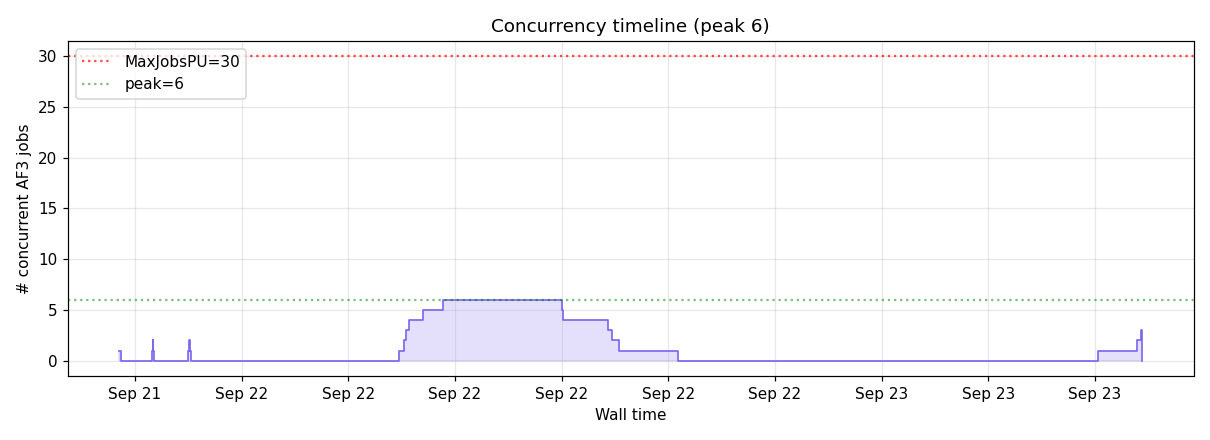
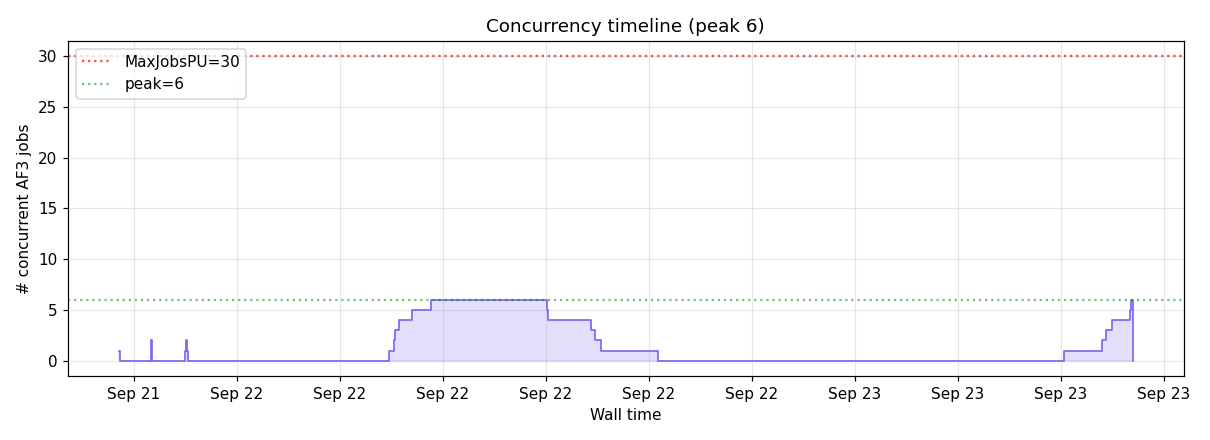
auto: 2026-09-23 10:46:55

diff --git a/index.html b/index.html
@@ -24,29 +24,29 @@ tr:nth-child(even) { background: #fafafa; }
 </style>
 </head><body>
 <h1>AF3 Campaign Dashboard</h1>
-<p class="stamp">Last updated: <strong>2026-09-23 09:46 EDT</strong> · regenerated on the cluster hourly · this page auto-reloads every 30 min</p>
+<p class="stamp">Last updated: <strong>2026-09-23 10:47 EDT</strong> · regenerated on the cluster hourly · this page auto-reloads every 30 min</p>
 
 <div class="cards">
-  <div class="card"><div class="v">85</div><div class="l">Total COMPLETED pairs</div></div>
-  <div class="card"><div class="v">3</div><div class="l">Done today</div></div>
-  <div class="card"><div class="v">53</div><div class="l">Last 24 h rate</div></div>
-  <div class="card"><div class="v">3 / 37</div><div class="l">Running / Pending now</div></div>
+  <div class="card"><div class="v">91</div><div class="l">Total COMPLETED pairs</div></div>
+  <div class="card"><div class="v">9</div><div class="l">Done today</div></div>
+  <div class="card"><div class="v">56</div><div class="l">Last 24 h rate</div></div>
+  <div class="card"><div class="v">6 / 34</div><div class="l">Running / Pending now</div></div>
 </div>
 
 <h2>Live queue</h2>
 <div class="plots">
   <div>
-    <h3>RUNNING (3)</h3>
+    <h3>RUNNING (6)</h3>
     <div class="queue-table">
       <table><thead><tr><th>Job</th><th>Elapsed</th><th>Left</th><th>Reason / Node</th></tr></thead>
-      <tbody><tr><td>af3_p042_b001</td><td>2:39</td><td>1-23:57:21</td><td>alphagpu54</td></tr><tr><td>af3_p041_b002</td><td>11:56</td><td>1-23:48:04</td><td>alphagpu51</td></tr><tr><td>af3_p041_b001</td><td>1:39:07</td><td>1-22:20:53</td><td>alphagpu53</td></tr></tbody></table>
+      <tbody><tr><td>af3_p044_b001</td><td>3:40</td><td>1-23:56:20</td><td>alphagpu53</td></tr><tr><td>af3_p044_b002</td><td>6:16</td><td>1-23:53:44</td><td>alphagpu54</td></tr><tr><td>af3_p042_b002</td><td>47:14</td><td>1-23:12:46</td><td>alphagpu51</td></tr><tr><td>af3_p042_b001</td><td>1:03:15</td><td>1-22:56:45</td><td>alphagpu54</td></tr><tr><td>af3_p041_b002</td><td>1:12:32</td><td>1-22:47:28</td><td>alphagpu51</td></tr><tr><td>af3_p041_b001</td><td>2:39:43</td><td>1-21:20:17</td><td>alphagpu53</td></tr></tbody></table>
     </div>
   </div>
   <div>
-    <h3>PENDING (37)</h3>
+    <h3>PENDING (34)</h3>
     <div class="queue-table">
       <table><thead><tr><th>Job</th><th>Wait</th><th>Limit</th><th>Reason</th></tr></thead>
-      <tbody><tr><td>af3_p051_b001</td><td>0:00</td><td>2-00:00:00</td><td>(Priority)</td></tr><tr><td>af3_p050_b002</td><td>0:00</td><td>2-00:00:00</td><td>(Priority)</td></tr><tr><td>af3_p050_b001</td><td>0:00</td><td>2-00:00:00</td><td>(Priority)</td></tr><tr><td>af3_p049_b002</td><td>0:00</td><td>2-00:00:00</td><td>(Priority)</td></tr><tr><td>af3_p049_b001</td><td>0:00</td><td>2-00:00:00</td><td>(Priority)</td></tr><tr><td>af3_p048_b002</td><td>0:00</td><td>2-00:00:00</td><td>(Priority)</td></tr><tr><td>af3_p048_b001</td><td>0:00</td><td>2-00:00:00</td><td>(Priority)</td></tr><tr><td>af3_p047_b002</td><td>0:00</td><td>2-00:00:00</td><td>(Priority)</td></tr><tr><td>af3_p047_b001</td><td>0:00</td><td>2-00:00:00</td><td>(Priority)</td></tr><tr><td>af3_p046_b002</td><td>0:00</td><td>2-00:00:00</td><td>(Priority)</td></tr><tr><td>af3_p046_b001</td><td>0:00</td><td>2-00:00:00</td><td>(Priority)</td></tr><tr><td>af3_p045_b002</td><td>0:00</td><td>2-00:00:00</td><td>(Priority)</td></tr><tr><td>af3_p045_b001</td><td>0:00</td><td>2-00:00:00</td><td>(Priority)</td></tr><tr><td>af3_p044_b002</td><td>0:00</td><td>2-00:00:00</td><td>(Priority)</td></tr><tr><td>af3_p044_b001</td><td>0:00</td><td>2-00:00:00</td><td>(Priority)</td></tr><tr><td>af3_p042_b002</td><td>0:00</td><td>2-00:00:00</td><td>(Priority)</td></tr><tr><td>af3_p051_b002</td><td>0:00</td><td>2-00:00:00</td><td>(Priority)</td></tr><tr><td>af3_p060_b002</td><td>0:00</td><td>2-00:00:00</td><td>(Priority)</td></tr><tr><td>af3_p060_b001</td><td>0:00</td><td>2-00:00:00</td><td>(Priority)</td></tr><tr><td>af3_p059_b002</td><td>0:00</td><td>2-00:00:00</td><td>(Priority)</td></tr><tr><td>af3_p059_b001</td><td>0:00</td><td>2-00:00:00</td><td>(Priority)</td></tr><tr><td>af3_p058_b002</td><td>0:00</td><td>2-00:00:00</td><td>(Priority)</td></tr><tr><td>af3_p058_b001</td><td>0:00</td><td>2-00:00:00</td><td>(Priority)</td></tr><tr><td>af3_p057_b002</td><td>0:00</td><td>2-00:00:00</td><td>(Priority)</td></tr><tr><td>af3_p057_b001</td><td>0:00</td><td>2-00:00:00</td><td>(Priority)</td></tr><tr><td>af3_p056_b002</td><td>0:00</td><td>2-00:00:00</td><td>(Priority)</td></tr><tr><td>af3_p056_b001</td><td>0:00</td><td>2-00:00:00</td><td>(Priority)</td></tr><tr><td>af3_p055_b002</td><td>0:00</td><td>2-00:00:00</td><td>(Priority)</td></tr><tr><td>af3_p055_b001</td><td>0:00</td><td>2-00:00:00</td><td>(Priority)</td></tr><tr><td>af3_p054_b002</td><td>0:00</td><td>2-00:00:00</td><td>(Priority)</td></tr><tr><td>af3_p054_b001</td><td>0:00</td><td>2-00:00:00</td><td>(Priority)</td></tr><tr><td>af3_p053_b002</td><td>0:00</td><td>2-00:00:00</td><td>(Priority)</td></tr><tr><td>af3_p053_b001</td><td>0:00</td><td>2-00:00:00</td><td>(Priority)</td></tr><tr><td>af3_p052_b002</td><td>0:00</td><td>2-00:00:00</td><td>(Priority)</td></tr><tr><td>af3_p052_b001</td><td>0:00</td><td>2-00:00:00</td><td>(Priority)</td></tr><tr><td>af3_p061_b002</td><td>0:00</td><td>2-00:00:00</td><td>(Priority)</td></tr><tr><td>af3_p061_b001</td><td>0:00</td><td>2-00:00:00</td><td>(Priority)</td></tr></tbody></table>
+      <tbody><tr><td>af3_p051_b002</td><td>0:00</td><td>2-00:00:00</td><td>(Priority)</td></tr><tr><td>af3_p051_b001</td><td>0:00</td><td>2-00:00:00</td><td>(Priority)</td></tr><tr><td>af3_p050_b002</td><td>0:00</td><td>2-00:00:00</td><td>(Priority)</td></tr><tr><td>af3_p050_b001</td><td>0:00</td><td>2-00:00:00</td><td>(Priority)</td></tr><tr><td>af3_p049_b002</td><td>0:00</td><td>2-00:00:00</td><td>(Priority)</td></tr><tr><td>af3_p049_b001</td><td>0:00</td><td>2-00:00:00</td><td>(Priority)</td></tr><tr><td>af3_p048_b002</td><td>0:00</td><td>2-00:00:00</td><td>(Priority)</td></tr><tr><td>af3_p048_b001</td><td>0:00</td><td>2-00:00:00</td><td>(Priority)</td></tr><tr><td>af3_p047_b002</td><td>0:00</td><td>2-00:00:00</td><td>(Priority)</td></tr><tr><td>af3_p047_b001</td><td>0:00</td><td>2-00:00:00</td><td>(Priority)</td></tr><tr><td>af3_p046_b002</td><td>0:00</td><td>2-00:00:00</td><td>(Priority)</td></tr><tr><td>af3_p046_b001</td><td>0:00</td><td>2-00:00:00</td><td>(Priority)</td></tr><tr><td>af3_p045_b002</td><td>0:00</td><td>2-00:00:00</td><td>(Priority)</td></tr><tr><td>af3_p045_b001</td><td>0:00</td><td>2-00:00:00</td><td>(Priority)</td></tr><tr><td>af3_p052_b002</td><td>0:00</td><td>2-00:00:00</td><td>(Priority)</td></tr><tr><td>af3_p052_b001</td><td>0:00</td><td>2-00:00:00</td><td>(Priority)</td></tr><tr><td>af3_p061_b002</td><td>0:00</td><td>2-00:00:00</td><td>(Priority)</td></tr><tr><td>af3_p061_b001</td><td>0:00</td><td>2-00:00:00</td><td>(Priority)</td></tr><tr><td>af3_p060_b002</td><td>0:00</td><td>2-00:00:00</td><td>(Priority)</td></tr><tr><td>af3_p060_b001</td><td>0:00</td><td>2-00:00:00</td><td>(Priority)</td></tr><tr><td>af3_p059_b002</td><td>0:00</td><td>2-00:00:00</td><td>(Priority)</td></tr><tr><td>af3_p059_b001</td><td>0:00</td><td>2-00:00:00</td><td>(Priority)</td></tr><tr><td>af3_p058_b002</td><td>0:00</td><td>2-00:00:00</td><td>(Priority)</td></tr><tr><td>af3_p058_b001</td><td>0:00</td><td>2-00:00:00</td><td>(Priority)</td></tr><tr><td>af3_p057_b002</td><td>0:00</td><td>2-00:00:00</td><td>(Priority)</td></tr><tr><td>af3_p057_b001</td><td>0:00</td><td>2-00:00:00</td><td>(Priority)</td></tr><tr><td>af3_p056_b002</td><td>0:00</td><td>2-00:00:00</td><td>(Priority)</td></tr><tr><td>af3_p056_b001</td><td>0:00</td><td>2-00:00:00</td><td>(Priority)</td></tr><tr><td>af3_p055_b002</td><td>0:00</td><td>2-00:00:00</td><td>(Priority)</td></tr><tr><td>af3_p055_b001</td><td>0:00</td><td>2-00:00:00</td><td>(Priority)</td></tr><tr><td>af3_p054_b002</td><td>0:00</td><td>2-00:00:00</td><td>(Priority)</td></tr><tr><td>af3_p054_b001</td><td>0:00</td><td>2-00:00:00</td><td>(Priority)</td></tr><tr><td>af3_p053_b002</td><td>0:00</td><td>2-00:00:00</td><td>(Priority)</td></tr><tr><td>af3_p053_b001</td><td>0:00</td><td>2-00:00:00</td><td>(Priority)</td></tr></tbody></table>
     </div>
   </div>
 </div>
@@ -62,7 +62,7 @@ tr:nth-child(even) { background: #fafafa; }
 </div>
 
 <h2>All-time job state breakdown</h2>
-<table><thead><tr><th>State</th><th>Count</th></tr></thead><tbody><tr><td>PENDING</td><td>37</td></tr><tr><td>COMPLETED</td><td>6</td></tr><tr><td>RUNNING</td><td>3</td></tr></tbody></table>
+<table><thead><tr><th>State</th><th>Count</th></tr></thead><tbody><tr><td>PENDING</td><td>34</td></tr><tr><td>COMPLETED</td><td>6</td></tr><tr><td>RUNNING</td><td>6</td></tr></tbody></table>
 
 <p class="stamp"><small>Generated by <code>generate.py</code> on the SUNY HPC cluster.
 Source / regeneration policy at <a href="https://github.com/matvei-lukianov/af3-dashboard">github.com/matvei-lukianov/af3-dashboard</a></small></p>
